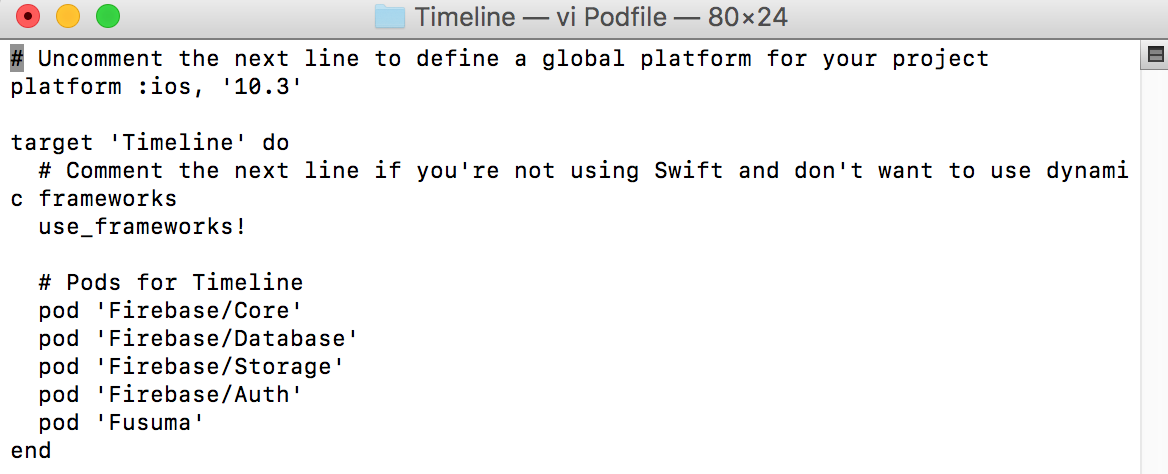
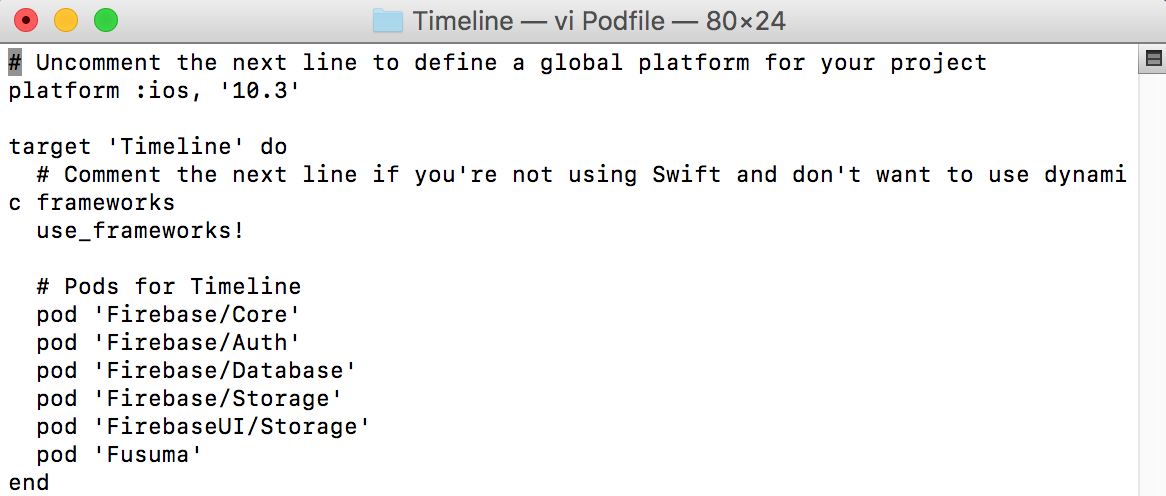
Before complete

Changed region(s): [[0.0, 0.0, 1.0, 0.2068], [0.0, 0.5612, 0.3087, 1.0], [0.0, 0.2658, 0.988, 0.5021]]

diff --git a/techblogs/tb_004_firebaseTimeline/tb004_script.html b/techblogs/tb_004_firebaseTimeline/tb004_script.html
@@ -124,6 +124,8 @@
         <div style="height:60px"></div>
 
         <h3>시작하기</h3>
+        <blockquote>
+
         <p>새 프로젝트를 만들고 Timeline이라고 지칭합니다. 다음과 같이 Data.swift는 일반 swift파일로, 나머지는 Cocoa
           Touch Class로 파일을 추가합니다. </p>
         <img src="tb004_media/images/created_files.png" width="250"><br><br>
@@ -163,26 +165,32 @@
         </p><br><br>
 
 
-        <p>이미지를 저장 하기위해 Firebase Storage, 텍스트를 업로드 하기위해 Firebase Database, 사용자가 이미지를
-          선택하도록 하기위해 Fusuma를 이용하도록 하겠습니다. Podfile을 다음과 같이 설정한 후 'pod install'을 실행합니다.
-          2번째 줄 platform은 버전에 알맞게 설정합니다.</p>
-        <img src="tb004_media/images/podfile.png" width="600"><br><br>
+        <h4>Podfile 설정</h4>
+        <p>이미지를 저장 하기위해 Firebase/Storage, 저장한 이미지를 표시하기 위해 FirebaseUI/Storage, 텍스트를
+          업로드 하기위해 Firebase/Database, 사용자가 이미지를 선택하도록 하기위해 Fusuma를 이용하도록 하겠습니다. Podfile을
+          다음과 같이 설정한 후 'pod install'을 실행합니다. 2번째 줄 platform은 버전에 알맞게 설정합니다.</p>
+        <img src="tb004_media/images/podfile.png" width="600"></br></br>
 
-        <p>해야할것 - 접근 권한, info.plist설정</p>
+        <h4>Database, Storage 규칙, info.plist 설정</h4>
+        <p>앱에서 Database, Storage에 접근하기 위해서 임시로 규칙을 공개하도록 합니다.</br>
+          또한 앱이 사진 라이브러리 접근하기 위해선 그 목적을 알려주어야 합니다. 따라서 프로젝트 내부 'info.plist'에는 다음과 같은 값을 추가해줍니다.</p>
+        <img src="tb004_media/images/BaseSetting.png" width="800"></br></br>
+
+
 
         <div style="height:60px"></div>
 
-        <h3>게시글 데이터</h3>
+        <h4>게시글 데이터</h4>
         <p><b>Data.swift</b>파일에 게시글 데이터를 구조화합니다.</br>
-          사용자가 입력한 메세지를 담을 text, 게시한 상대적 시간을 나타내는 date, Firebase Storage에 저장된 이미지 주소를 가리키는
-          imageURL, imageURL로 얻어온 이미지를 담은 image 프로퍼티를 가집니다.</br>
+          사용자가 입력한 메세지를 담을 text, 게시한 상대적 시간을 나타내는 date, 게시글 이미지를 담을 imageView프로퍼티가 있습니다.</br>
           여기서 date는 Int타입입니다. 이는 Date.timeIntervalSince1970를 이용하여 1970년 이후의 시간을 숫자로 얻어오기 때문입니다.
           비교가 쉽도록 하기 위함이므로 여기선 이를 기준으로 진행하겠습니다.</br>
           생성자는 매개변수 마다 앞에 '_'를 붙여 인자이름을 생략할 수 있도록 했습니다.</p>
         <code data-gist-id="f5f6662e4a9e729d6a26e9354ecadc22" data-gist-hide-footer="true"></code>
+      </blockquote>
 
         <div style="height:60px"></div>
-        <h3>Fusuma와 Firebase를 이용한 데이터 저장</h3>
+        <h3>Fusuma와 Firebase를 이용한 데이터 저장 및 파일 업로드</h3>
         <blockquote>
           <p>먼저 이미지를 업로드하기 위한 디자인을 살펴보겠습니다. Fusuma는 독자적인 버튼을 가지고 있기 때문에, 이를 NavigationBarButtonItem으로
             사용하기 위해선 코드로 구현해야합니다.</br>
@@ -191,8 +199,8 @@
           <img src="tb004_media/images/AddNavi_Overview.png" width="600"><br><br>
           <p>4번 <b>AddNavigationController.swift</b>부터 보겠습니다. AddNavigationCotroller는
             fusuma, uploadController프로퍼티를 가지며 이를 네비게이션 스택에 추가합니다.</br>
-            <i>18~29</i> :  fusuma에 대한 설정을 합니다.</br>
-             <i>31~32</i> :  5번 컨트롤러는 코드로 Main.storyboard로부터 불러오겠습니다.</br>
+            <i>18~29</i> : fusuma에 대한 설정을 합니다.</br>
+            <i>31~32</i> : 5번 컨트롤러는 코드로 Main.storyboard로부터 불러오겠습니다.</br>
             <i>29, 36~39</i> : fusuma컨트롤러는 위아래에 독자적인 버튼이 있기 때문에, 네비게이션바와 바텀바는 숨겨줍니다.
             그리고 AddNavigationController가 최초 표시될 때 fusuma가 표시되도록 설정합니다.</br>
             <i>43~49</i> : fusuma에서 체크버튼을 누르면 uploadController에 이미지를 넘겨주고, 푸쉬합니다.
@@ -200,12 +208,27 @@
           <code data-gist-id="d1923be4cdf48e7ca6ddc77279639401" data-gist-hide-footer="true"
             data-gist-line="9-49"></code></br><br>
 
-            <p>다음으로 5번 <b>UploadViewController</b>를 보겠습니다. TextView PlaceHolder에 대한 설명은 여기서 다루지 않고,
-            Firebase Database, Firebase Storage에 게시글을 업로드 하는 과정을 살펴보겠습니다. </p>
-            <code data-gist-id="e963729ff7632c3b29da5d54dc4c2bec" data-gist-hide-footer="true"
-              data-gist-line="9-25"></code>
-              <code data-gist-id="e963729ff7632c3b29da5d54dc4c2bec" data-gist-hide-footer="true"
-                data-gist-line="32-35"></code></br><br>
+          <h4>업로드 뷰 컨트롤러</h4>
+          <p>다음으로 5번 <b>UploadViewController</b>를 보겠습니다. TextView PlaceHolder에 대한 설명은
+            여기서 다루지 않고, Firebase Database, Firebase Storage에 게시글을 업로드 하는 과정을 살펴보겠습니다.</br>
+            프로퍼티들은 다음과 같이 설정합니다.</br>
+            <i>34~35</i> : 여기서 UploadViewController의 네비게이션바버튼아이템을 추가하고, <i>34줄</i>에서
+            버튼에 대한 액션으로 uploadPost()메소드를 지정해 줍니다. </p>
+          <code data-gist-id="e963729ff7632c3b29da5d54dc4c2bec" data-gist-hide-footer="true"
+            data-gist-line="9-27"></code>
+          <code data-gist-id="e963729ff7632c3b29da5d54dc4c2bec" data-gist-hide-footer="true"
+            data-gist-line="34-35"></code></br><br>
+
+          <p><i>69~75</i> : 앞서 fusuma에서 숨겼던 네비게이션바를 표시하고, fusuma에서 넘겨준 이미지를 표시합니다. 뷰가
+            사라질때 네비게이션 바를 숨기도록하여, BackButton이 눌려 fusuma로 돌아갈 경우 다시 네비게이션바를 숨겨줍니다.</br>
+            <i>76~105</i> : <b>uploadPost()메소드</b>를 이용하여 데이터를 저장하고 파일을 업로드합니다. text,
+            date는 Database에 저장하고 image는 Storage에 업로드합니다. 텍스트 저장은 <i>77~85</i>에서 placeHolder의
+            유무에 따라 달리하고, date는 1970년 이후의 시간을 Int로 받아옵니다. 이미지는 storageRef.child([filename])메소드를
+            이용하여 루트안에 저장할 filename을 지정합니다. 이미지를 JPEG형식으로 바꾸어 주고, imageRef.putData()메소드를
+            이용하여 파일을 업로드합니다.
+          </p>
+          <code data-gist-id="e963729ff7632c3b29da5d54dc4c2bec" data-gist-hide-footer="true"
+            data-gist-line="68-106"></code></br><br>
 
         </blockquote>
 
@@ -218,14 +241,14 @@
               함께 설명하도록 하겠습니다.</br>
               <p>최신글을 불러 들이기 위해선 기본적으로 UITableViewController에 있는 프로퍼티인 <b>refreshControl</b>을
                 이용합니다. 사용하기 위한 양식은 다음과 같습니다. refreshControl은 테이블뷰 스크롤을 맨 위로 올리면 나타나며
-                이에 대한 액션은 직접 구현해야 합니다. 30번째 줄 addTarget()메소드 안 action 매개변수에 지정된 메소드를
-                넘겨주어 구현합니다.</br>
+                이에 대한 액션은 직접 구현해야 합니다. <i>33줄</i> addTarget()메소드 안 action 매개변수에 지정된
+                메소드를 넘겨주어 구현합니다.</br>
                 <csmall><a href="https://firebase.google.com/docs/reference/ios/naming-migration-guide">참고로 swift Firebase 4.0.0버전부터 naming convention이 바뀌었습니다.</a></csmall>
               </p>
             </p>
 
             <code data-gist-id="196f327528322762177eb2e627c4f182" data-gist-hide-footer="true"
-              data-gist-line="9-32"></code></br>
+              data-gist-line="9-34"></code></br>
             </br>
 
             <h4>테이블 뷰 Section, Row, Cell 설정</h4>
@@ -239,7 +262,7 @@
               data-gist-line="39-55"></code></br>
             </br>
 
-            <h4>데이터 검색 loadPosts()메소드</h4>
+            <h4>데이터 검색 및 파일 다운로드 - loadPosts()메소드</h4>
             <p>이제 본격적으로 Firebase로 부터 저장된 포스트들을 읽어 오겠습니다. 그 전에 먼저 앞에서 넘어갔던 loadPosts와
               posts의 관계에 대해서 설명하겠습니다.</br>
               처음 앱이 실행 되면 Timeline App은 Firebase에 있는 모든 Posts들을 <b>observeSingleEvent()</b>메소드로
@@ -260,38 +283,40 @@
               <i>67~73</i> : snapshotData 배열 안에 있는 각각의 anyDatum들은 Any타입이므로 이를 DataSnapshot타입으로
               다시 바꾸어 줍니다.
               <b>이제 for문이 처음 실행 되는 snapshotDatum안에는 가장 최근 게시글이 들어있습니다.</b> snapshotDatum.key안에는
-              AutoId가, snapshotDatum.value안에는 text, date, imageURL를 키로 갖는 딕셔너리 데이터들이
-              들어있습니다. 이 데이터로 부터 Post를 생성해줍니다. 참고로 for문안에서 생성된 post 인스턴스가 사라지지 않으려면
-              class타입이어야만 합니다.</br>
-              <i>75~89</i> : imageURL로 부터 Image를 가져옵니다. 여기서의 imageURL은 사용자가 이미지 업로드
+              AutoId가, snapshotDatum.value안에는 text, date를 키로 갖는 딕셔너리 데이터들이 들어있습니다.
+              이 데이터로 부터 Post를 생성해줍니다. 참고로 for문안에서 생성된 post 인스턴스가 사라지지 않으려면 class타입이어야만
+              합니다.
+              </br>
+              <i>75~76</i> : imageURL로 부터 Image를 가져옵니다. 여기서의 imageURL은 사용자가 이미지 업로드
               시 Firebase Storage에 저장한 이미지의 URL입니다. 주의해야 할 점은 <i>80~88</i>블록은 순서대로
               실행 되지 않고 스레드가 만들어 진다는 것입니다. 따라서 <i>90번째 줄</i>이 끝나도 이 블록은 계속 실행됩니다.
               참고로 <i>83번째 줄</i>은 모든 이미지를 얻었을 때 실행되도록 바꾼다면 효율이 높아집니다.</br>
-              <i>94~95</i> : loadedPost.prefix()메소드를 이용하여, 3개의 게시글만 posts에 추가하고,
+              <i>78~85</i> : loadedPost.prefix()메소드를 이용하여, 3개의 게시글만 posts에 추가하고,
               테이블뷰를 갱신합니다.
             </p>
 
             <code data-gist-id="196f327528322762177eb2e627c4f182" data-gist-hide-footer="true"
-              data-gist-line="57-97"></code></br>
+              data-gist-line="57-85"></code></br>
             </br>
 
             <h4>최신게시글 검색 refresh(), loadFreshPosts()메소드</h4>
-            <p>앞서 <i>30번째 줄</i>에서 refreshControl의 액션으로 refresh()메소드를 설정했습니다. 이는 테이블
-              뷰 스크롤을 맨 위로 올릴 시에 나타납니다. refresh()메소드에서 loadFreshPosts()메소드를 호출하여,
-              새로운 게시글을 불러오게합니다.</p>
+            <p>앞서 <i>33줄</i>에서 refreshControl의 액션으로 refresh()메소드를 설정했습니다. 이는 테이블 뷰 스크롤을
+              맨 위로 올릴 시에 나타납니다. refresh()메소드에서 loadFreshPosts()메소드를 호출하여, 새로운 게시글을
+              불러오게합니다.
+            </p>
             <code data-gist-id="196f327528322762177eb2e627c4f182" data-gist-hide-footer="true"
-              data-gist-line="30"></code>
+              data-gist-line="33"></code>
             <code data-gist-id="196f327528322762177eb2e627c4f182" data-gist-hide-footer="true"
-              data-gist-line="162-167"></code></br>
+              data-gist-line="135-139"></code></br>
             <p>loadFreshPosts()메소드는 loadPosts()메소드와 거의 동일하니, 다른 부분을 살펴보겠습니다.</br>
-              <i>100~105</i> : DatabaseQuery.queryStarting(atValue:) 메소드를 이용하여, 현재
+              <i>88~93</i> : DatabaseQuery.queryStarting(atValue:) 메소드를 이용하여, 현재
               표시되고 있는 posts프로퍼티중에서 가장 최근 Date보다 더 최근에 나온 게시글을 질문합니다. 단 Firebase Database에
               저장되는 값들은 전부 String타입 이므로 이를 String으로 캐스팅해줍니다.</br>
-              <i>111, 136~144</i> : 새로 불러들인 최근 게시글들은 freshPostsChunk에 담아둡니다. 만약 이
+              <i>99, 124~132</i> : 새로 불러들인 최근 게시글들은 freshPostsChunk에 담아둡니다. 만약 이
               갯수가 g_NumPerOneLoad개 이상이면 for문을 빠져나와 더 이상 표시하지 않습니다. 이 freshPostsChunk를
               loadedPosts, posts 배열 맨 앞에 삽입합니다. </p>
             <code data-gist-id="196f327528322762177eb2e627c4f182" data-gist-hide-footer="true"
-              data-gist-line="99-145"></code></br>
+              data-gist-line="87-122"></code></br>
             </br>
 
             <h4>이전게시글 검색 scrollViewDidScroll(), loadPastPosts()메소드</h4>
@@ -300,13 +325,13 @@
               불러옵니다. FooterLabel을 표시하여 loading중 임을 표시하고, loadPastPosts()메소드를 호출합니다.
             </p>
             <code data-gist-id="196f327528322762177eb2e627c4f182" data-gist-hide-footer="true"
-              data-gist-line="166-177"></code></br>
+              data-gist-line="141-150"></code></br>
             <p>loadPastPosts()메소드에서는 앱 실행시 불러왔던 이전게시글들을, g_NumPerOneLoad개 만큼 불러옵니다.
               FooterLabel이 표시되는것을 보여주기 위해 sleep(1)을 넣었고, 테이블 뷰를 갱신하고 나면, FooterLabel을
               다시 숨겨줍니다.
             </p>
             <code data-gist-id="196f327528322762177eb2e627c4f182" data-gist-hide-footer="true"
-              data-gist-line="147-157"></code></br>
+              data-gist-line="123-131"></code></br>
             </br>
 
 
